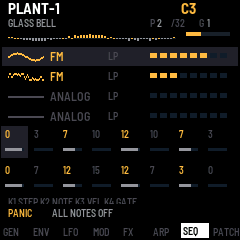
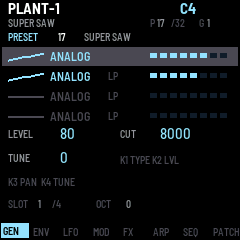
M11.1: 切到 CYAN 配色（对齐网页版），图表填充、页签胶囊、扫光改为页内细线

diff --git a/app/app.c b/app/app.c
@@ -1158,19 +1158,28 @@ static void draw_env_graph(int32_t x, int32_t y, int32_t w, int32_t h, float a, 
 
     for (i = x; i <= xa; i++) {                        /* attack: 0 -> 1 */
         float k = (float)(i - x) / (float)(xa - x + 1);
-        cv_rect(i, y + h - 1 - (int32_t)((float)(h - 2) * k), 1, 1, C_HI);
+        int32_t yy = y + h - 1 - (int32_t)((float)(h - 2) * k);
+        cv_rect(i, yy, 1, y + h - 1 - yy, C_LINE);
+        cv_rect(i, yy, 1, 1, C_HI);
     }
     for (i = xa; i <= xd; i++) {                       /* decay: 1 -> s */
         float k = (float)(i - xa) / (float)(xd - xa + 1);
         float v = s + (1.0f - s) * fm_exp2f(-4.0f * k);
-        cv_rect(i, y + h - 1 - (int32_t)((float)(h - 2) * v), 1, 1, C_HI);
+        int32_t yy = y + h - 1 - (int32_t)((float)(h - 2) * v);
+        cv_rect(i, yy, 1, y + h - 1 - yy, C_LINE);
+        cv_rect(i, yy, 1, 1, C_HI);
     }
-    for (i = xd; i <= xs; i++)                         /* sustain */
-        cv_rect(i, y + h - 1 - (int32_t)((float)(h - 2) * s), 1, 1, C_HI);
+    for (i = xd; i <= xs; i++) {                       /* sustain */
+        int32_t yy = y + h - 1 - (int32_t)((float)(h - 2) * s);
+        cv_rect(i, yy, 1, y + h - 1 - yy, C_LINE);
+        cv_rect(i, yy, 1, 1, C_HI);
+    }
     for (i = xs; i <= xr; i++) {                       /* release: s -> 0 */
         float k = (float)(i - xs) / (float)(xr - xs + 1);
         float v = s * fm_exp2f(-4.0f * k);
-        cv_rect(i, y + h - 1 - (int32_t)((float)(h - 2) * v), 1, 1, C_HI);
+        int32_t yy = y + h - 1 - (int32_t)((float)(h - 2) * v);
+        cv_rect(i, yy, 1, y + h - 1 - yy, C_LINE);
+        cv_rect(i, yy, 1, 1, C_HI);
     }
 }
 
@@ -1180,6 +1189,9 @@ static void draw_lfo_graph(int32_t x, int32_t y, int32_t w, int32_t h)
     for (i = 0; i < w; i++) {
         float v = lfo_shape(P.lfo_shape, (float)i / (float)w);
         int32_t yy = y + h / 2 - (int32_t)(v * (float)(h / 2 - 1));
+        int32_t top = yy < y + h / 2 ? yy : y + h / 2;
+        int32_t hh = yy < y + h / 2 ? y + h / 2 - yy : yy - (y + h / 2);
+        if (hh > 0) cv_rect(x + i, top, 1, hh, C_LINE);
         cv_rect(x + i, yy, 1, 1, C_HI);
     }
 }
@@ -1227,7 +1239,7 @@ static void draw(void)
         gen_t *G = &P.gen[i];
         int32_t y = i * 20;
         int32_t k, lit;
-        if (i == selected) cv_rect(2, y + 1, 236, 19, C_LINE);
+        if (i == selected) cv_rect(2, y + 1, 236, 19, C_DIM);
         draw_slot_wave(8, y + 5, 36, 11, i, G->on ? C_HI : C_DIM);
         cv_text(50, y + 3, &FONT_XS, GEN_NAME[G->type], G->on ? (G->ftype ? C_HI : C_GRAY) : C_DIM);
         if (G->ftype) cv_text(108, y + 4, &FONT_T, FTYPE_NAME[G->ftype], C_DIM);
@@ -1386,6 +1398,11 @@ static void draw(void)
         cv_text(8, 82, &FONT_T, slot_index < NSLOT && bank.slot[slot_index].used ? "SAVE overwrite" : "SAVE store", C_DIM);
         break;
     }
+    if (wipe_on) {
+        uint32_t dt = now - wipe_t0;
+        if (dt > 160u) wipe_on = 0;
+        else cv_rect((int32_t)((float)dt / 160.0f * 236.0f), 2, 2, 90, C_HI);
+    }
     cv_blit(0, 126);
 
     if (osd_kind && plat_ms() < osd_until) {
@@ -1412,19 +1429,14 @@ static void draw(void)
             num_text(v, slot_index + 1);
             cv_text(140, 3, &FONT_T, v, C_WHITE);
         }
-        cv_blit(0, 204);
+        cv_blit(0, 28);
     }
 
-    /* a bright bar crosses the page when it changes */
+    /* the page-change sweep: a thin accent line inside the page band */
     if (wipe_on) {
         uint32_t dt = now - wipe_t0;
         if (dt > 160u) wipe_on = 0;
-        else {
-            int32_t x = (int32_t)((float)dt / 160.0f * 240.0f);
-            cv_begin(240, 12, C_BLACK);
-            cv_rect(x, 0, 3, 12, C_WHITE);
-            cv_blit(0, 196);
-        }
+        else cv_rect((int32_t)((float)dt / 160.0f * 236.0f), 2, 2, 90, C_HI);
     }
 
     /* page tabs: a lit pill on the current page */
@@ -1432,7 +1444,7 @@ static void draw(void)
     for (i = 0; i < NPAGES; i++) {
         int32_t x = i * 30;
         if (i == page) {
-            cv_rect(x + 1, 3, 28, 15, C_WHITE);
+            cv_rect(x + 1, 3, 28, 15, C_HI);
             cv_text(x + 3, 5, &FONT_T, PAGE_NAME[i], C_BLACK);
         } else {
             cv_text(x + 3, 6, &FONT_T, PAGE_NAME[i], C_DIM);

diff --git a/app/app.h b/app/app.h
@@ -1,6 +1,7 @@
 /* SPDX-License-Identifier: MIT
  * PLANT-1 M8: every button and encoder does its label; declicked voices and a soft output. */
 #pragma once
+#define APP_PALETTE 2u          /* gfx.c PALETTES: CYAN, the browser PLANT-1 accent */
 #include <stdint.h>
 #include "plat.h"
 

diff --git a/README.md b/README.md
@@ -4,7 +4,10 @@ The FM-1 side of [PLANT-1](https://github.com/kong8la/plant1), the browser synth
 This repository builds a real `.fwsc` package you can flash with
 [the PLANT-1 flash page](https://kong8la.com/plant1/flash/).
 
-## M11: the panel, after JIANT
+## M11: the panel, after JIANT, in the browser's colours
+
+The screen uses the CYAN palette (APP_PALETTE 2), the browser PLANT-1's accent, with filled
+curves, segmented card meters and lit pill tabs.
 
 The control scheme follows the one JIANT FM documents (its manual, not its code): a section button
 takes you to that section, pressing it again walks the section's groups, and holding it runs that
